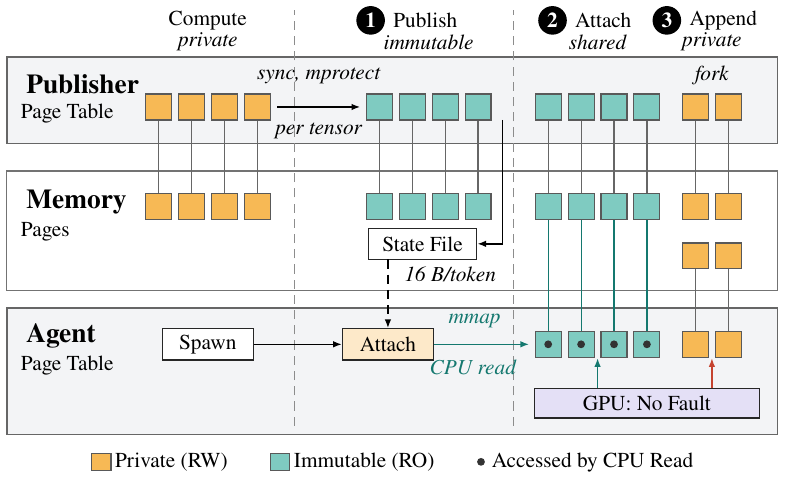
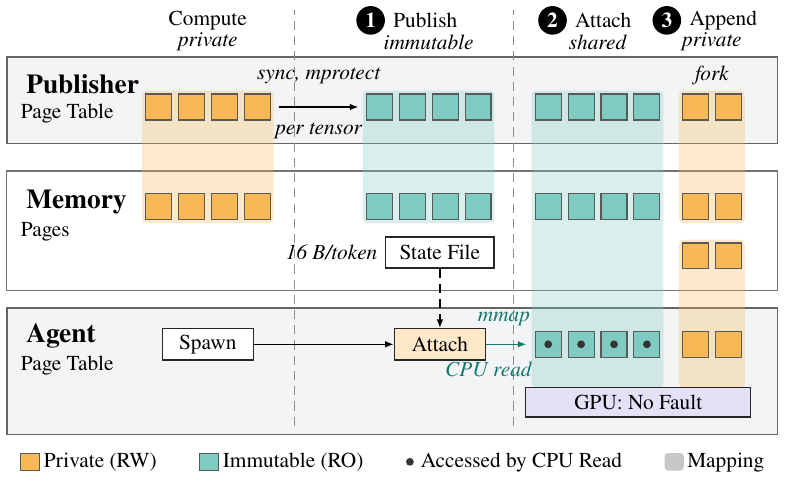
Replace the mapping lines of the publish-and-attach figure by bands

diff --git a/figures/src/design_lifecycle.tex b/figures/src/design_lifecycle.tex
@@ -41,61 +41,60 @@
 \node[tag, anchor=west] at (7.84,5.4) {Append};
 \node[note] at (8.14,5.15) {private};
 
+% a band joins the entries of a page table with the pages they refer to
+\newcommand{\band}[5]{\fill[#1, opacity=0.3, rounded corners=1.5pt] (#2,#3) rectangle (#4,#5);}
+\band{tailc}{1.56}{3.06}{3.08}{4.59}
+\band{sharedc}{4.11}{3.06}{5.63}{4.59}
+\band{sharedc}{6.06}{1.16}{7.58}{4.59}
+\band{tailc}{7.76}{3.06}{8.52}{4.59}
+\band{tailc}{7.76}{1.16}{8.52}{2.87}
+
 % compute: the entries and the pages of the prefix are writable by the publisher
 \foreach \k in {0,...,3} {
-  \node[pte, fill=tailc] (a\k) at (1.75+\k*0.38,4.4) {};
-  \node[pte, fill=tailc] (m\k) at (1.75+\k*0.38,3.25) {};
-  \draw[map] (a\k.south) -- (m\k.north);
+  \node[pte, fill=tailc] at (1.75+\k*0.38,4.4) {};
+  \node[pte, fill=tailc] at (1.75+\k*0.38,3.25) {};
 }
 % publish: one protection change per tensor, then the metadata
-\draw[tiny] (3.12,4.4) -- (4.08,4.4);
+\draw[tiny] (3.14,4.4) -- (4.06,4.4);
 \node[note] at (3.6,4.76) {sync, mprotect};
 \node[note] at (3.6,4.13) {per tensor};
 \foreach \k in {0,...,3} {
-  \node[pte, fill=sharedc] (b\k) at (4.3+\k*0.38,4.4) {};
-  \node[pte, fill=sharedc] (n\k) at (4.3+\k*0.38,3.25) {};
-  \draw[map] (b\k.south) -- (n\k.north);
+  \node[pte, fill=sharedc] at (4.3+\k*0.38,4.4) {};
+  \node[pte, fill=sharedc] at (4.3+\k*0.38,3.25) {};
 }
-\node[comp, minimum width=1.25cm, minimum height=0.36cm, inner ysep=0pt] (state) at (4.8,2.82) {State File};
-\draw[tiny] (5.72,4.25) -- (5.72,2.82) -- (state.east);
-\node[note] at (5.12,2.47) {16 B/token};
+\node[comp, minimum width=1.25cm, minimum height=0.36cm, inner ysep=0pt] (state) at (5.0,2.72) {State File};
+\node[note, anchor=east] at (4.32,2.72) {16 B/token};
 
 % attach and append: both page tables refer to the same pages of the prefix
 \foreach \k in {0,...,3} {
-  \node[pte, fill=sharedc] (c\k) at (6.25+\k*0.38,4.4) {};
-  \node[pte, fill=sharedc] (o\k) at (6.25+\k*0.38,3.25) {};
+  \node[pte, fill=sharedc] at (6.25+\k*0.38,4.4) {};
+  \node[pte, fill=sharedc] at (6.25+\k*0.38,3.25) {};
   \node[pte, fill=sharedc] (d\k) at (6.25+\k*0.38,1.66) {};
   \node[flag] at (d\k) {};
-  \draw[map] (c\k.south) -- (o\k.north);
-  \draw[map, roline] (d\k.north) -- (o\k.south);
 }
 \foreach \k in {0,1} {
   % the rows that the publisher writes after the fork
-  \node[pte, fill=tailc] (e\k) at (7.95+\k*0.38,4.4) {};
-  \node[pte, fill=tailc] (p\k) at (7.95+\k*0.38,3.25) {};
-  \draw[map] (e\k.south) -- (p\k.north);
+  \node[pte, fill=tailc] at (7.95+\k*0.38,4.4) {};
+  \node[pte, fill=tailc] at (7.95+\k*0.38,3.25) {};
   % the private extent of the agent
-  \node[pte, fill=tailc] (f\k) at (7.95+\k*0.38,1.66) {};
-  \node[pte, fill=tailc] (q\k) at (7.95+\k*0.38,2.68) {};
-  \draw[map] (f\k.north) -- (q\k.south);
+  \node[pte, fill=tailc] at (7.95+\k*0.38,1.66) {};
+  \node[pte, fill=tailc] at (7.95+\k*0.38,2.68) {};
 }
 \node[note] at (8.14,4.76) {fork};
 
 % the agent: it starts as a process of its own and attaches by the metadata
 \node[comp, minimum width=1.05cm, minimum height=0.36cm, inner ysep=0pt] (spawn) at (2.32,1.66) {Spawn};
-\node[comp, fill=actc, minimum width=1.05cm, minimum height=0.36cm, inner ysep=0pt] (attach) at (4.4,1.66) {Attach};
+\node[comp, fill=actc, minimum width=1.05cm, minimum height=0.36cm, inner ysep=0pt] (attach) at (5.0,1.66) {Attach};
 \draw[tiny] (spawn) -- (attach);
-\draw[tiny, densely dashed] (4.4,2.64) -- (attach.north);
-\draw[tiny, roline] (attach.east) -- (6.03,1.66);
-\node[note, text=roline] at (5.4,1.93) {mmap};
-\node[note, text=roline] at (5.38,1.39) {CPU read};
+\draw[tiny, densely dashed] (state.south) -- (attach.north);
+\draw[tiny, roline] (attach.east) -- (6.0,1.66);
+\node[note, text=roline] at (5.74,1.95) {mmap};
+\node[note, text=roline] at (5.56,1.37) {CPU read};
 
 % the GPU reads and writes through the entries of the agent without a fault
-\node[comp, fill=gpuc, minimum width=2.6cm, minimum height=0.34cm, inner ysep=0pt] (gpu) at (7.39,0.98) {GPU: No Fault};
-\draw[tiny, roline] (6.82,1.15) -- (6.82,1.5);
-\draw[tiny, rwline] (8.14,1.15) -- (8.14,1.5);
+\node[comp, fill=gpuc, minimum width=2.6cm, minimum height=0.34cm, inner ysep=0pt] at (7.29,0.99) {GPU: No Fault};
 
 % legend
-\node[tag] at (4.45,0.3) {\lgdfill{tailc}\,Private (RW)\qquad\lgdfill{sharedc}\,Immutable (RO)\qquad\tikz[baseline=-0.55ex]{\node[circle, fill=black!80, inner sep=0pt, minimum size=0.09cm] {};}\,\,Accessed by CPU Read};
+\node[tag] at (4.45,0.3) {\lgdfill{tailc}\,Private (RW)\qquad\lgdfill{sharedc}\,Immutable (RO)\qquad\tikz[baseline=-0.55ex]{\node[circle, fill=black!80, inner sep=0pt, minimum size=0.09cm] {};}\,\,Accessed by CPU Read\qquad\tikz[baseline=-0.55ex]{\fill[black!22, rounded corners=1pt] (0,-0.1) rectangle (0.22,0.1);}\,Mapping};
 \end{tikzpicture}
 \end{document}
